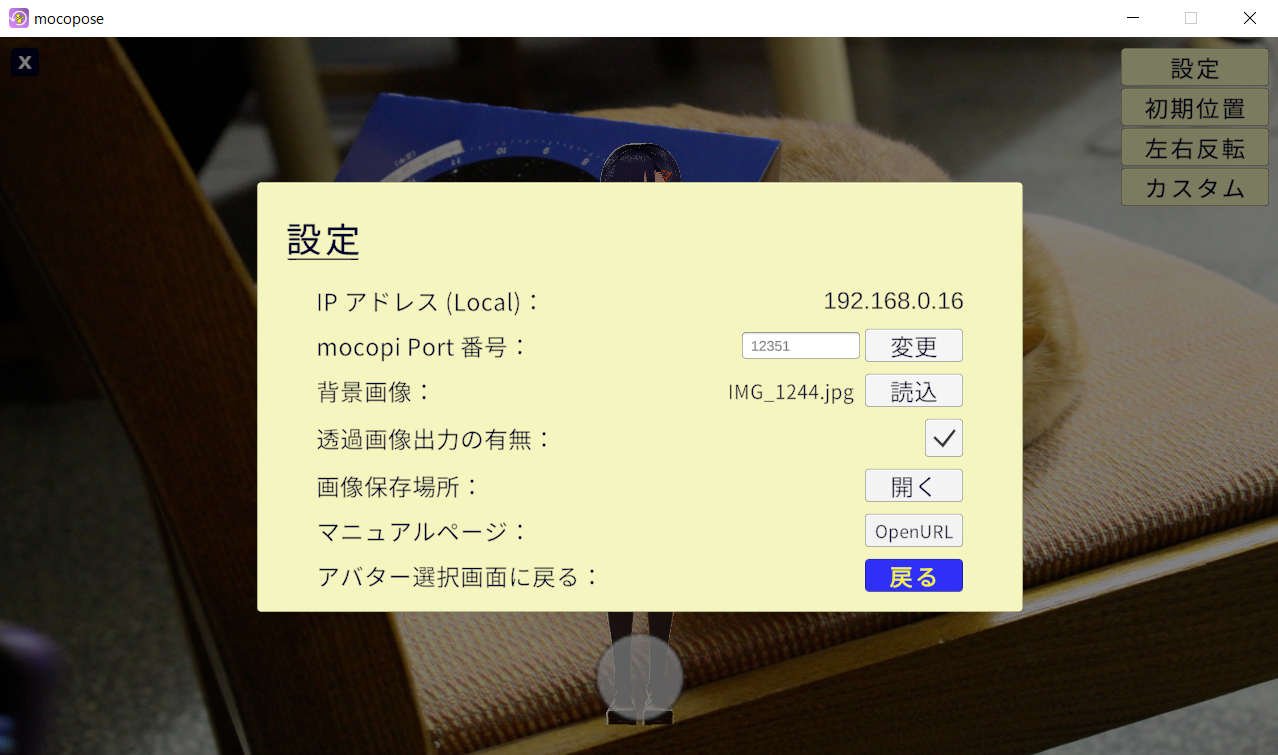
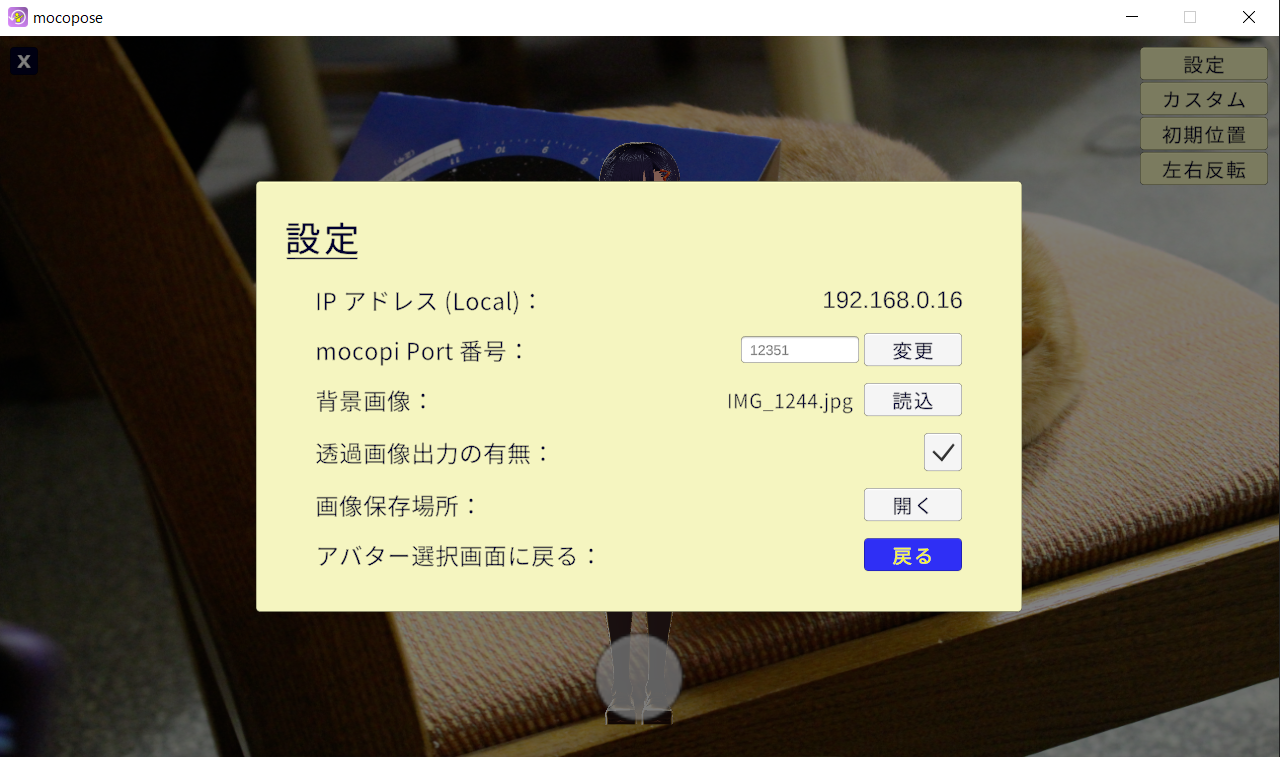
初版作成

diff --git a/Document/Manual.md b/Document/Manual.md
@@ -4,21 +4,21 @@
 
 ## mocopose とは？
 モーションキャプチャセンサ及びスマートフォンアプリの mocopi を使い<br/>
-手軽に好きなポーズのサムネイル素材を制作できる Windows アプリです。
+手軽に 好きなポーズ のサムネイル素材を制作できる Windows アプリです。
 
 
 ## 使い方概要
 1. mocopose アプリを起動します
-2. タイトル画面で mocopi に関する情報を確認、設定します
+2. タイトル画面で mocopi に関する情報を確認し、mocopi アプリを設定します
 3. アバター選択画面で VRM 形式のモデルを読み込みます
 4. mocopi アプリでの動きが mocopose アプリ画面上のアバターに反映されていることを確認します
-5. カメラやアバターの調整を行います
+5. 撮影画面でカメラやアバターの調整を行います
 6. シャッターを切ります
-7. カメラ、アバター、ポーズタイミングの調整をして画像を保存します
+7. プレビュー画面でカメラ、アバター、ポーズタイミングの調整をして画像を保存します
 
 
 ## ファイアーウォール警告画面について
-アプリ起動時にファイアウォールに関するダイアログが出ることがあります。<br/>
+アプリ実行中にファイアウォールに関するダイアログが出ることがあります。<br/>
 外部アプリとの連携に必要となりますので、許可をお願いします。
 
 
@@ -36,8 +36,12 @@
    - mocopi アプリの PC 接続設定における送信ポート設定と番号を合わせてください
    - 撮影画面でも ポート番号は設定可能ですので、デフォルトのまま進めても大丈夫です
 <br/><br/>
-- クレジットボタンを押すことで、アプリで利用している素材のクレジットが見られます
+- 「クレジット」ボタンを押すことで、アプリで利用している素材のクレジットが見られます
    - 暗くなっている背景部分を押すことで、元の画面に戻れます
+<br/><br/>
+- 「利用規約」ボタンを押すことで、アプリの利用規約のページ（外部ページ）を開きます
+<br/><br/>
+- 「マニュアル」ボタンを押すことで、このマニュアルページ（外部ページ）を開きます
 <br/><br/>
 - ポート番号を設定した状態で、「次へ」ボタンを押すことによりアバター選択画面に移動します
 <br/><br/>
@@ -72,13 +76,13 @@
 - 「設定」ボタンを押すことで、設定画面を開きます
    - 暗くなっている背景部分を押すことで、元の画面に戻れます
 <br/><br/>
+- 「カスタム」ボタンを押すことで、カスタム画面を開きます
+   - 背景部分を押すことで、元の画面に戻れます
+<br/><br/>
 - 「初期位置」ボタンを押すことで、カメラの位置及びアバターの大きさを初期状態に戻します
    - さらにアバターの腰を基準として、カメラを正面に移動させます
 <br/><br/>
 - 「左右反転」ボタンを押すことで、カメラの映像を左右反転させます
-<br/><br/>
-- 「カスタム」ボタンを押すことで、カスタム画面を開きます
-   - 背景部分を押すことで、元の画面に戻れます
 <br/><br/>
 - 中央下の丸いシャッターボタンを押すことで、5 秒のカウントダウンの後シャッターが切られ、プレビュー画面に遷移します
    - シャッターが切られたタイミングで、アバターのポーズを固定します
@@ -91,7 +95,7 @@
 
 - ローカルネットワーク上の IP アドレスが表示されます
 <br/><br/>
-- mocopi の送信ポート番号を入力したうえで変更ボタンを押すと、ポート番号を変更できます
+- mocopi の送信ポート番号を入力したうえで「変更」ボタンを押すと、ポート番号を変更できます
 <br/><br/>
 - 「読込」ボタンを押すことでダイアログが表示され、読み込みたい画像 (PNG, JPEG) を選択できます
    - 画像はウィンドウのサイズに合わせて拡縮されます   
@@ -99,8 +103,6 @@
 - 透過画像の出力を有効にすることで、デフォルトで出力される、背景＋アバターの画像のほか、アバターのみを透過した画像も加えて出力できます
 <br/><br/>
 - 「開く」ボタンを押すことで、出力した画像を保存する場所をエクスプローラーで開きます 
-<br/><br/>
-- 「OpenURL」ボタンを押すことで、このマニュアルページを開きます
 <br/><br/>
 - 「戻る」ボタンを押すことで、アバター選択画面に移動します
 <br/><br/>

diff --git a/Document/Terms.md b/Document/Terms.md
@@ -4,7 +4,7 @@
 
 
 ## 権利帰属について
-- アプリ、その他本サービスに関連する一切の権利は、本サービス開発者又は本サービス開発者に権利許諾した第三者に帰属します。
+- アプリ、その他本サービスに関連する一切の権利は、本サービス開発者又は本サービス開発者が権利許諾した第三者に帰属します。
 - ユーザーは、本サービスの利用権を第三者に譲渡したり貸与したりすることはできません。
 
 
